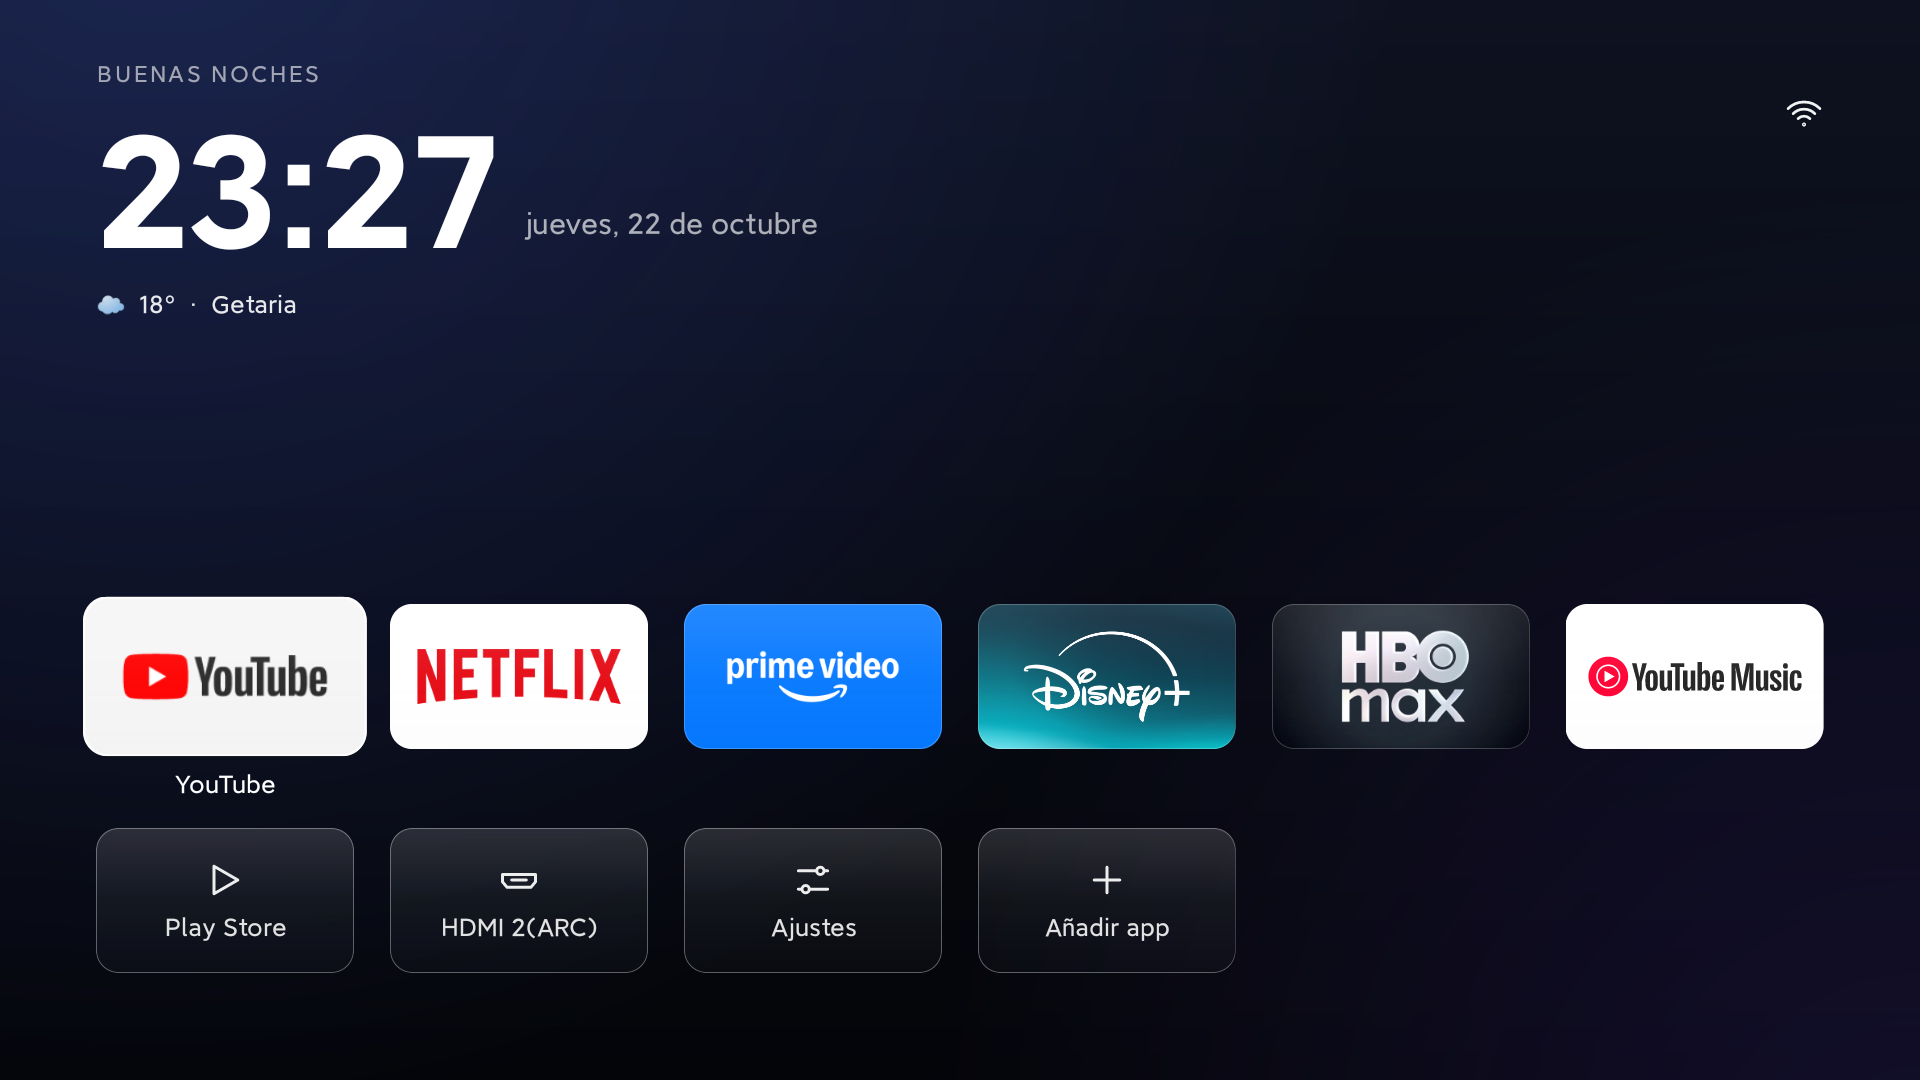
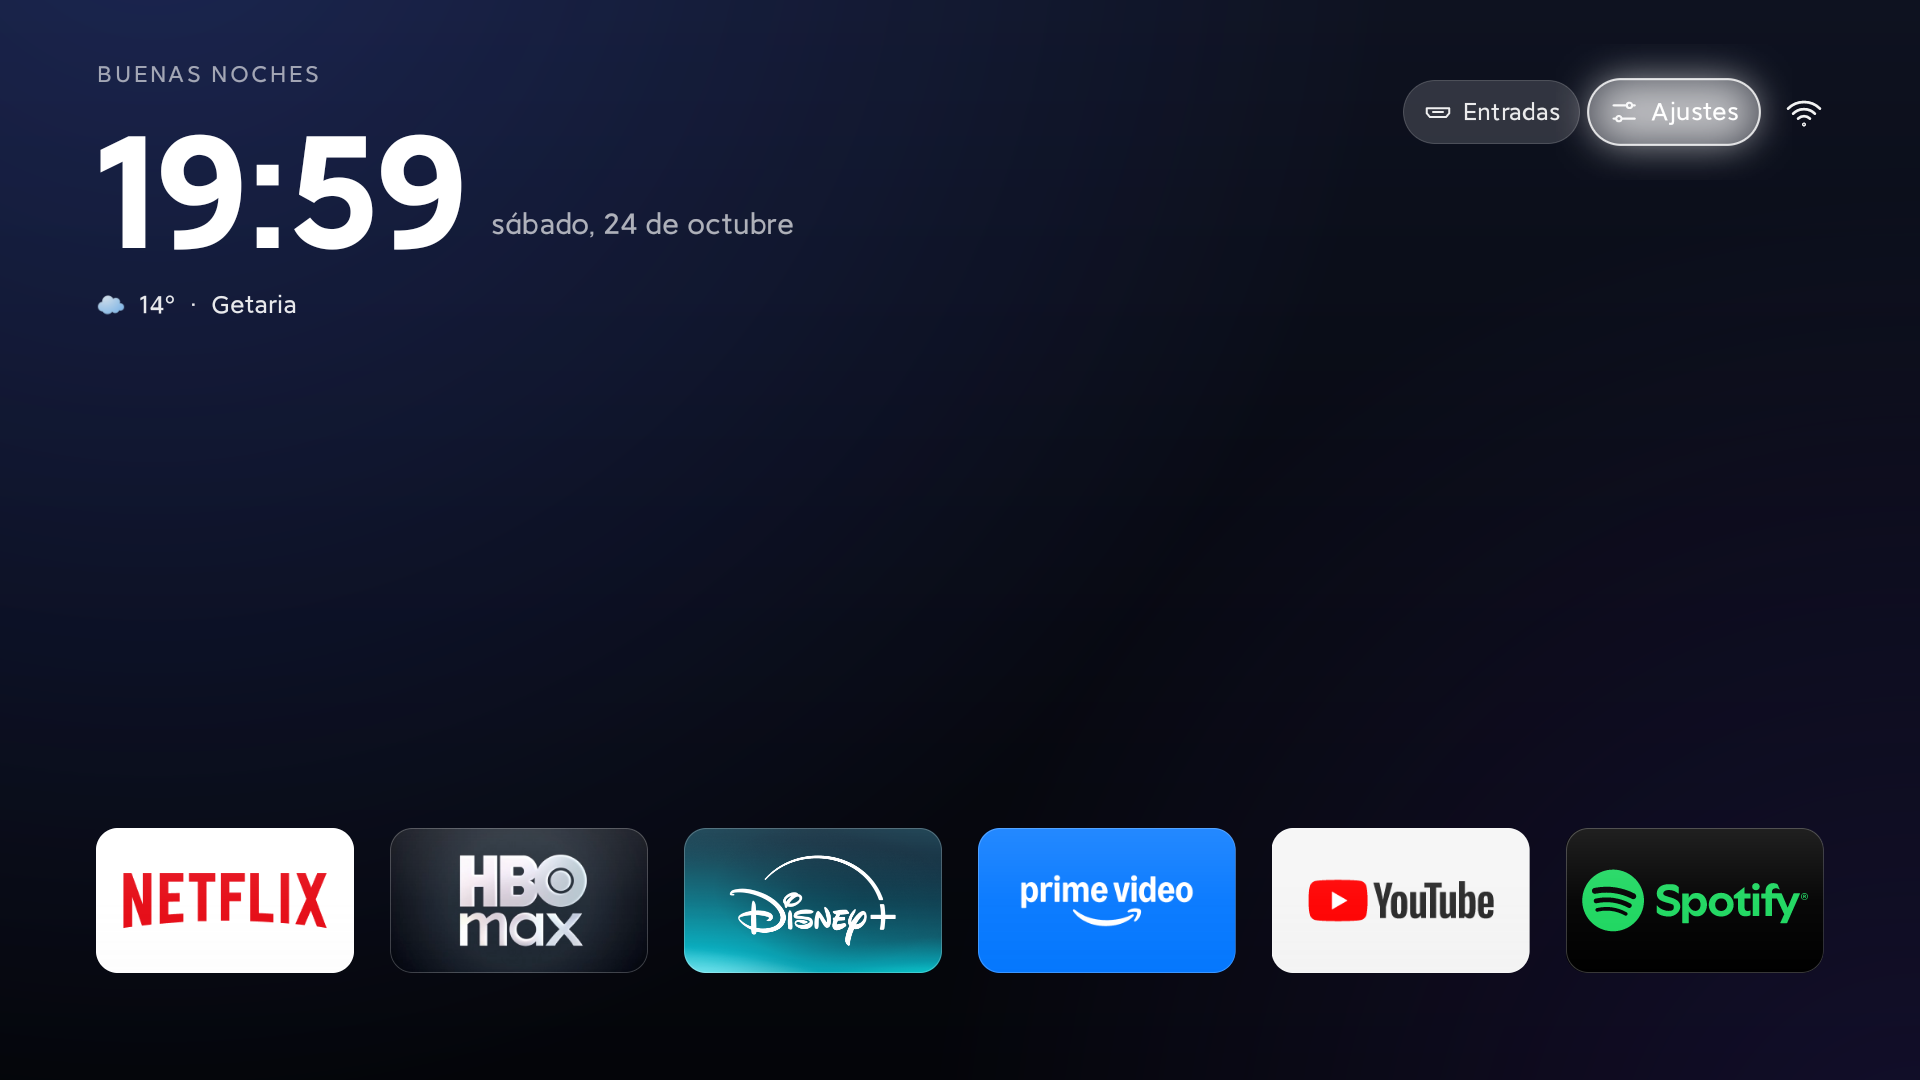
Docs: Xiaomi screenshots on 1.6.2, hero refreshed and the default city noted

diff --git a/README.es.md b/README.es.md
@@ -11,21 +11,21 @@ TV Detox AMG es un launcher independiente para Android TV. Nació del código de
 [![Build and test](https://img.shields.io/github/actions/workflow/status/maestrea76/TV-Detox-AMG/build.yml?branch=main&label=compilaci%C3%B3n%20y%20pruebas)](https://github.com/maestrea76/TV-Detox-AMG/actions)
 [![Licencia](https://img.shields.io/badge/licencia-MIT-black)](LICENSE)
 
-<img src="docs/screenshots/real-xiaomi-xlarge-2rows.png" alt="TV Detox AMG en un Xiaomi MiTV con dos filas de aplicaciones" width="100%">
+<img src="docs/screenshots/real-xiaomi-xlarge.png" alt="TV Detox AMG en un Xiaomi MiTV con el tiempo en modo Extra grande" width="100%">
 
 </div>
 
 ## Novedades
 
 - Superficies y estados de foco con efecto glass en las tarjetas de aplicaciones, sistema y HDMI. El mosaico, icono o píldora con el foco lleva una sombra difuminada, para localizar la selección de un vistazo.
-- Reloj grande, fecha y saludo localizados, además de una línea del tiempo de Open-Meteo. En Ajustes, Idioma cambia las etiquetas entre español e inglés; si no eliges, siguen el idioma del televisor. Tiempo tiene cuatro modos: Pequeño muestra el icono y la temperatura, Compacto añade la ciudad, Grande añade el estado del cielo, la sensación térmica, la humedad y el viento, y Extra grande añade la máxima y mínima de hoy y una fila de siete días con el cielo, la máxima y la mínima de cada día. Elegir ciudad busca una ciudad y la guarda. La búsqueda queda en la parte alta de la pantalla, así el teclado no tapa Buscar, Cancelar ni los resultados. Hasta que elijas una, la línea muestra Getaria.
+- Reloj grande, fecha y saludo localizados, además de una línea del tiempo de Open-Meteo. En Ajustes, Idioma cambia las etiquetas entre español e inglés; si no eliges, siguen el idioma del televisor. Tiempo tiene cuatro modos: Pequeño muestra el icono y la temperatura, Compacto añade la ciudad, Grande añade el estado del cielo, la sensación térmica, la humedad y el viento, y Extra grande añade la máxima y mínima de hoy y una fila de siete días con el cielo, la máxima y la mínima de cada día. Elegir ciudad busca una ciudad y la guarda. La búsqueda queda en la parte alta de la pantalla, así el teclado no tapa Buscar, Cancelar ni los resultados. Hasta que elijas una, la línea muestra Getaria; Ciudad por defecto, en cuanto hay una elegida, la olvida y vuelve a esa.
 - Cuando Android detecta contenido multimedia activo aparece una pequeña tarjeta de reproducción. Al seleccionarla, vuelve al reproductor. Si el instalador no pudo conceder el acceso, Android puede pedir que se habilite el acceso a notificaciones.
 - La línea del reloj reúne el resto, de derecha a izquierda: el icono de red, la píldora de **Ajustes** (Fondo de pantalla, Tiempo, Idioma, Añadir app, Google Play y los ajustes del televisor) y, cuando el televisor tiene entradas, la píldora **Entradas**, cuyo menú lista todas las entradas HDMI para abrir la elegida. No hay fila de utilidades bajo las aplicaciones, así que esa fila es para aplicaciones.
 - Fondos ligeros con degradados de color, sin necesidad de imágenes fotográficas.
 
 ## Capturas
 
-Capturas en televisores reales. El Sony BRAVIA con la 1.6.1; la del Xiaomi MiTV es de la 1.5.2, antes de que la fila de utilidades pasara a las píldoras.
+Capturas en televisores reales, ambos con la 1.6.2. Las del Sony son de la 1.6.1, cuya pantalla de inicio y menús son iguales salvo la opción Ciudad por defecto añadida al menú Tiempo.
 
 | Sony BRAVIA (Android 9) · Extra grande | Sony BRAVIA · La píldora de Ajustes |
 |---|---|

diff --git a/README.md b/README.md
@@ -11,21 +11,21 @@ TV Detox AMG is an independent Android TV launcher. It started from the [TV Deto
 [![Build and test](https://img.shields.io/github/actions/workflow/status/maestrea76/TV-Detox-AMG/build.yml?branch=main&label=build%20%26%20tests)](https://github.com/maestrea76/TV-Detox-AMG/actions)
 [![License](https://img.shields.io/badge/license-MIT-black)](LICENSE)
 
-<img src="docs/screenshots/real-xiaomi-xlarge-2rows.png" alt="TV Detox AMG on a Xiaomi MiTV with two rows of apps" width="100%">
+<img src="docs/screenshots/real-xiaomi-xlarge.png" alt="TV Detox AMG on a Xiaomi MiTV in Extra large weather mode" width="100%">
 
 </div>
 
 ## What’s new
 
 - Glass-style surfaces and focus states across app, system and HDMI cards. The focused tile, icon or pill gets a soft blurred shadow, so the selection is easy to pick out.
-- A large clock, localized date and greeting, plus a weather line from Open-Meteo. Settings → Language switches the home screen labels between English and Spanish; otherwise they follow the TV. Weather offers four modes: Small shows the icon and temperature, Compact adds the city, Large adds the conditions, feels-like temperature, humidity and wind, and Extra large adds today's high and low plus a seven-day strip with each day's sky, high and low. Choose location searches for a city and saves it. The search sits at the top of the screen, so the keyboard does not cover Search, Cancel or the results. Until you pick one, the line shows Getaria.
+- A large clock, localized date and greeting, plus a weather line from Open-Meteo. Settings → Language switches the home screen labels between English and Spanish; otherwise they follow the TV. Weather offers four modes: Small shows the icon and temperature, Compact adds the city, Large adds the conditions, feels-like temperature, humidity and wind, and Extra large adds today's high and low plus a seven-day strip with each day's sky, high and low. Choose location searches for a city and saves it. The search sits at the top of the screen, so the keyboard does not cover Search, Cancel or the results. Until you pick one, the line shows Getaria; Default city, once a city is picked, forgets it and goes back to that.
 - A compact now-playing pill appears when Android reports active media. Selecting it returns to the player. Android may ask you to enable notification access if the installer could not grant it automatically.
 - The clock's line carries everything else, right to left: the network icon, the **Settings** pill (Wallpaper, Weather, Language, Add app, Google Play and the TV's own settings) and, when the TV has any, the **Inputs** pill, whose menu lists every HDMI input so one pick opens it. There is no utility row under the apps, so a row of tiles goes to apps instead.
 - Lightweight, color-gradient wallpapers; no photographic background assets are required.
 
 ## Screenshots
 
-Captured on real televisions. The Sony BRAVIA runs 1.6.1; the Xiaomi MiTV shot dates from 1.5.2, before the utility row moved into the pills.
+Captured on real televisions, both on 1.6.2. The Sony shots date from 1.6.1, whose home screen and menus are the same apart from the Default city entry added to the Weather menu.
 
 | Sony BRAVIA (Android 9) · Extra large | Sony BRAVIA · The Settings pill |
 |---|---|
